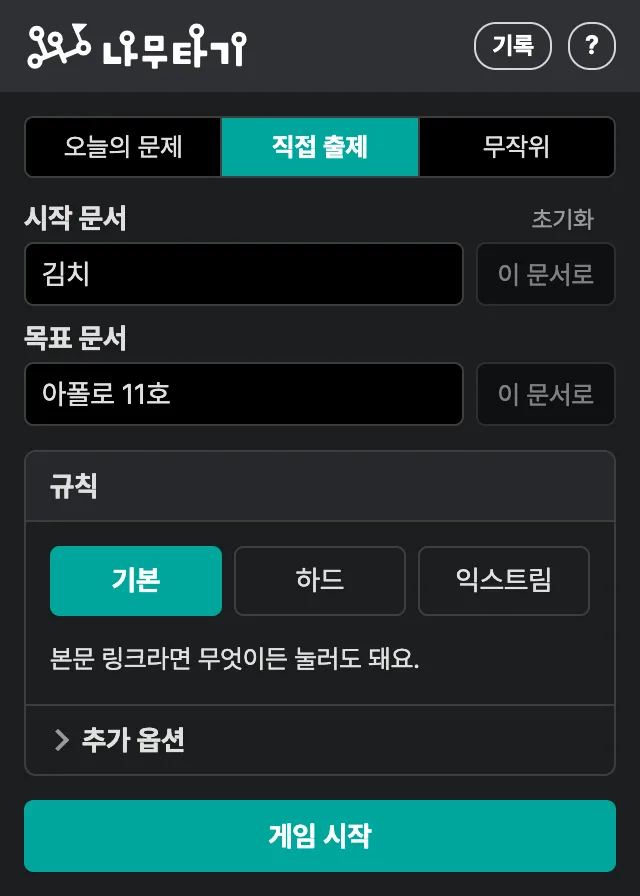
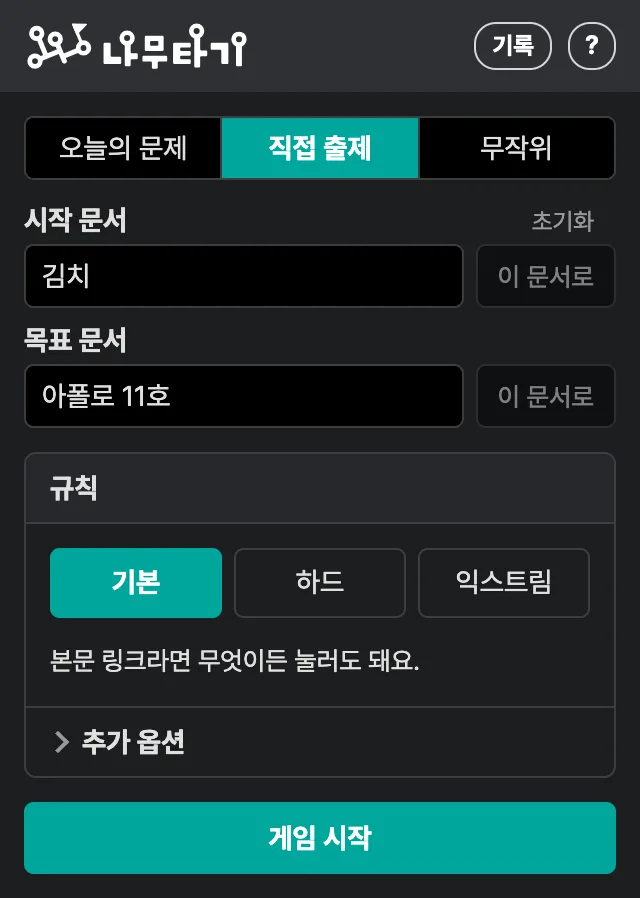
v0.3.0 사진 다시 찍기: 사이트와 README 사진 20장, 웹스토어 그림 6장, shots.mjs 보강
- ?v=5로 올림, 오늘의 문제 사진은 TODAY_SHIFT로 어울리는 날 문제, ONLY=popups 추가
- Figma 기본 문서의 그림을 바꾸고 store/images를 내보냄(슬라이드 5 수락 창 비율에 맞춰 위치 조정)

diff --git a/server/public/index.html b/server/public/index.html
@@ -36,7 +36,7 @@
 
   <div class="actions" style="margin-bottom: 22.5px"><a class="btn primary go" href="https://chromewebstore.google.com/detail/namutagi/fiadjnefijhjdngbdcaoahcdhkbnckfi">크롬 확장 추가하기</a></div>
 
-  <figure><picture><source media="(prefers-color-scheme: dark)" srcset="shots/play-dark.webp?v=4"><img src="shots/play-light.webp?v=4" width="960" height="600" alt="게임 중인 나무위키 화면. 위쪽 진행 막대에 목표, 단계, 시간이 보이고 그 밑에 지나온 경로가 펼쳐져 있다"></picture><figcaption>김치 문서에서 아폴로 11호 문서로 가는 판이에요.<br>진행 막대에 목표, 단계, 시간이 보이고, 지나온 경로도 펼쳐 볼 수 있어요.</figcaption></figure>
+  <figure><picture><source media="(prefers-color-scheme: dark)" srcset="shots/play-dark.webp?v=5"><img src="shots/play-light.webp?v=5" width="960" height="600" alt="게임 중인 나무위키 화면. 위쪽 진행 막대에 목표, 단계, 시간이 보이고 그 밑에 지나온 경로가 펼쳐져 있다"></picture><figcaption>김치 문서에서 아폴로 11호 문서로 가는 판이에요.<br>진행 막대에 목표, 단계, 시간이 보이고, 지나온 경로도 펼쳐 볼 수 있어요.</figcaption></figure>
 
   <details class="toc" id="toc" open>
     <summary></summary>
@@ -57,8 +57,8 @@
       <tr><th>무작위</th><td>난이도와 분야를 고르면 목표를 대신 정해 줘요.<br>시작은 나무위키 랜덤 문서예요.</td></tr>
     </table>
     <div class="pops">
-      <figure><picture><source media="(prefers-color-scheme: dark)" srcset="shots/popup-today-dark.webp?v=4"><img src="shots/popup-today-light.webp?v=4" loading="lazy" alt="팝업의 오늘의 문제 탭"></picture><figcaption>오늘의 문제</figcaption></figure>
-      <figure><picture><source media="(prefers-color-scheme: dark)" srcset="shots/popup-custom-dark.webp?v=4"><img src="shots/popup-custom-light.webp?v=4" loading="lazy" alt="팝업의 직접 출제 탭"></picture><figcaption>직접 출제</figcaption></figure>
+      <figure><picture><source media="(prefers-color-scheme: dark)" srcset="shots/popup-today-dark.webp?v=5"><img src="shots/popup-today-light.webp?v=5" loading="lazy" alt="팝업의 오늘의 문제 탭"></picture><figcaption>오늘의 문제</figcaption></figure>
+      <figure><picture><source media="(prefers-color-scheme: dark)" srcset="shots/popup-custom-dark.webp?v=5"><img src="shots/popup-custom-light.webp?v=5" loading="lazy" alt="팝업의 직접 출제 탭"></picture><figcaption>직접 출제</figcaption></figure>
     </div>
     <p>나무위키에서 우클릭해서 지금 문서를 시작이나 목표로 바로 넣을 수도 있어요.</p>
   </div>
@@ -78,15 +78,15 @@
   <div>
     <p>도착하면 내 기록이 담긴 도전장 링크를 만들 수 있어요.<br>받은 친구는 같은 문제, 같은 규칙으로 도전해요.<br>시간이 빠른 쪽이 이기고, 같으면 단계가 적은 쪽이 이겨요.<br>상대의 경로는 이겨야 볼 수 있어요.</p>
     <div class="two">
-      <figure><picture><source media="(prefers-color-scheme: dark)" srcset="shots/invite-dark.webp?v=4"><img src="shots/invite-light.webp?v=4" width="960" height="600" loading="lazy" alt="도전장 링크를 열면 뜨는 수락 창"></picture><figcaption>도전장을 받으면 어떤 판인지 보고 도전해요.</figcaption></figure>
-      <figure><picture><source media="(prefers-color-scheme: dark)" srcset="shots/win-dark.webp?v=4"><img src="shots/win-light.webp?v=4" width="960" height="600" loading="lazy" alt="도전장에서 이겼을 때의 결과 카드와 폭죽"></picture><figcaption>이기면 폭죽이 터지고 상대 경로가 열려요.</figcaption></figure>
+      <figure><picture><source media="(prefers-color-scheme: dark)" srcset="shots/invite-dark.webp?v=5"><img src="shots/invite-light.webp?v=5" width="960" height="600" loading="lazy" alt="도전장 링크를 열면 뜨는 수락 창"></picture><figcaption>도전장을 받으면 어떤 판인지 보고 도전해요.</figcaption></figure>
+      <figure><picture><source media="(prefers-color-scheme: dark)" srcset="shots/win-dark.webp?v=5"><img src="shots/win-light.webp?v=5" width="960" height="600" loading="lazy" alt="도전장에서 이겼을 때의 결과 카드와 폭죽"></picture><figcaption>이기면 폭죽이 터지고 상대 경로가 열려요.</figcaption></figure>
     </div>
   </div>
 
   <h2 id="s4"><a href="#toc">4.</a> 내 기록 보기</h2>
   <div>
     <p>도착률, 평균 단계와 시간, 연속 도착을 팝업에서 볼 수 있어요.<br>지난 판의 이동 경로와 문서마다 머문 시간도 남아요.<br>지난 판도 기록에서 도전장으로 보낼 수 있어요.</p>
-    <div class="pops"><figure><picture><source media="(prefers-color-scheme: dark)" srcset="shots/popup-records-dark.webp?v=4"><img src="shots/popup-records-light.webp?v=4" loading="lazy" alt="팝업의 기록 화면. 도착률과 연속 도착, 최근 판이 보인다"></picture><figcaption>기록 화면(예시)</figcaption></figure></div>
+    <div class="pops"><figure><picture><source media="(prefers-color-scheme: dark)" srcset="shots/popup-records-dark.webp?v=5"><img src="shots/popup-records-light.webp?v=5" loading="lazy" alt="팝업의 기록 화면. 도착률과 연속 도착, 최근 판이 보인다"></picture><figcaption>기록 화면(예시)</figcaption></figure></div>
   </div>
 
   <h2 id="s5"><a href="#toc">5.</a> 계정 없이 바로 시작해요</h2>

diff --git a/demo/photos.html b/demo/photos.html
@@ -1,0 +1,5 @@
+<!doctype html><meta charset="utf-8"><title>사진 전체</title>
+<style>body{font:14px/1.5 Pretendard,system-ui,sans-serif;margin:24px;background:#f4f4f4;color:#222}h2{margin:32px 0 8px;font-size:16px}
+.row{display:flex;gap:12px;align-items:flex-start;flex-wrap:wrap}figure{margin:0}figcaption{font-size:12px;color:#666;margin-bottom:4px}
+img{display:block;max-width:100%;border:1px solid #ccc;background:#fff}.sh img{width:470px}.sh .p img{width:230px}.st img{width:560px}</style>
+<h1>나무타기 사진 전체(2026-11-09 다시 찍음)</h1><h2>랜딩, 환영 페이지, README 사진(밝은, 어두운)</h2><div class="row sh"><figure class=""><figcaption>시작(목표 카드) light</figcaption><img src="../server/public/shots/start-light.webp?light5"></figure><figure class=""><figcaption>시작(목표 카드) dark</figcaption><img src="../server/public/shots/start-dark.webp?dark5"></figure><figure class=""><figcaption>카운트다운 light</figcaption><img src="../server/public/shots/countdown-light.webp?light5"></figure><figure class=""><figcaption>카운트다운 dark</figcaption><img src="../server/public/shots/countdown-dark.webp?dark5"></figure><figure class=""><figcaption>경로 펼침 light</figcaption><img src="../server/public/shots/play-light.webp?light5"></figure><figure class=""><figcaption>경로 펼침 dark</figcaption><img src="../server/public/shots/play-dark.webp?dark5"></figure><figure class=""><figcaption>도착 결과 light</figcaption><img src="../server/public/shots/result-light.webp?light5"></figure><figure class=""><figcaption>도착 결과 dark</figcaption><img src="../server/public/shots/result-dark.webp?dark5"></figure><figure class=""><figcaption>도전장 수락 light</figcaption><img src="../server/public/shots/invite-light.webp?light5"></figure><figure class=""><figcaption>도전장 수락 dark</figcaption><img src="../server/public/shots/invite-dark.webp?dark5"></figure><figure class=""><figcaption>승리 light</figcaption><img src="../server/public/shots/win-light.webp?light5"></figure><figure class=""><figcaption>승리 dark</figcaption><img src="../server/public/shots/win-dark.webp?dark5"></figure><figure class="p"><figcaption>팝업 오늘의 문제 light</figcaption><img src="../server/public/shots/popup-today-light.webp?light5"></figure><figure class="p"><figcaption>팝업 오늘의 문제 dark</figcaption><img src="../server/public/shots/popup-today-dark.webp?dark5"></figure><figure class="p"><figcaption>팝업 직접 출제 light</figcaption><img src="../server/public/shots/popup-custom-light.webp?light5"></figure><figure class="p"><figcaption>팝업 직접 출제 dark</figcaption><img src="../server/public/shots/popup-custom-dark.webp?dark5"></figure><figure class="p"><figcaption>팝업 규칙 light</figcaption><img src="../server/public/shots/popup-rules-light.webp?light5"></figure><figure class="p"><figcaption>팝업 규칙 dark</figcaption><img src="../server/public/shots/popup-rules-dark.webp?dark5"></figure><figure class="p"><figcaption>팝업 기록 light</figcaption><img src="../server/public/shots/popup-records-light.webp?light5"></figure><figure class="p"><figcaption>팝업 기록 dark</figcaption><img src="../server/public/shots/popup-records-dark.webp?dark5"></figure></div><h2>웹스토어 그림(Figma 기본 문서에서 내보냄)</h2><div class="row st"><figure><figcaption>screenshot-1</figcaption><img src="../store/images/screenshot-1.png"></figure><figure><figcaption>screenshot-2</figcaption><img src="../store/images/screenshot-2.png"></figure><figure><figcaption>screenshot-3</figcaption><img src="../store/images/screenshot-3.png"></figure><figure><figcaption>screenshot-4</figcaption><img src="../store/images/screenshot-4.png"></figure><figure><figcaption>screenshot-5</figcaption><img src="../store/images/screenshot-5.png"></figure><figure><figcaption>marquee-1400x560</figcaption><img src="../store/images/marquee-1400x560.png"></figure><figure><figcaption>promo-440x280</figcaption><img src="../store/images/promo-440x280.png"></figure></div>

diff --git a/server/public/welcome.html b/server/public/welcome.html
@@ -45,8 +45,8 @@
       <li>카운트다운이 끝나면 시간이 흘러요.<br>본문 링크만 눌러 목표 문서까지 가요.</li>
     </ol>
     <div class="shots">
-      <div class="pop"><figure><picture><source media="(prefers-color-scheme: dark)" srcset="shots/popup-today-dark.webp?v=4"><img src="shots/popup-today-light.webp?v=4" alt="팝업의 오늘의 문제 탭"></picture><figcaption>툴바 아이콘을 누르면 열려요.</figcaption></figure></div>
-      <div class="game"><figure><picture><source media="(prefers-color-scheme: dark)" srcset="shots/play-dark.webp?v=4"><img src="shots/play-light.webp?v=4" alt="게임 중인 나무위키 화면. 위쪽 진행 막대에 목표, 단계, 시간이 보이고 그 밑에 지나온 경로가 펼쳐져 있다"></picture><figcaption>위쪽 막대에 목표, 단계, 시간이 보여요.</figcaption></figure></div>
+      <div class="pop"><figure><picture><source media="(prefers-color-scheme: dark)" srcset="shots/popup-today-dark.webp?v=5"><img src="shots/popup-today-light.webp?v=5" alt="팝업의 오늘의 문제 탭"></picture><figcaption>툴바 아이콘을 누르면 열려요.</figcaption></figure></div>
+      <div class="game"><figure><picture><source media="(prefers-color-scheme: dark)" srcset="shots/play-dark.webp?v=5"><img src="shots/play-light.webp?v=5" alt="게임 중인 나무위키 화면. 위쪽 진행 막대에 목표, 단계, 시간이 보이고 그 밑에 지나온 경로가 펼쳐져 있다"></picture><figcaption>위쪽 막대에 목표, 단계, 시간이 보여요.</figcaption></figure></div>
     </div>
     <p>이미 열어 둔 나무위키 탭은 새로고침해 주세요.<br>새로고침하면 그때부터 나무타기가 동작해요.</p>
   </div>

diff --git a/CLAUDE.md b/CLAUDE.md
@@ -38,7 +38,7 @@ main은 2026-11-03에 푸시(v0.2.0 릴리스 커밋). 서버는 namutagi.com에
 - 항상 한국어. 짧게, 결론부터. 코드는 설명에 길게 넣지 않는다.
 - "바꾸지 말고 알려줘", "어때?", "뭔소리야?" 같은 질문은 구현하지 말고 답만 한다. "해줘"는 구현한다.
 - 방식이 여러 갈래면 AskUserQuestion으로 선택지(미리보기 포함)를 주고 사용자가 고르게 한다. 큰 화면 변경은 데모를 먼저 보여 달라고 한 적이 있다(카운트다운은 `demo/countdown.html`로 보여 주고 승인받은 뒤 적용).
-- 코드를 바꾸면 개발 노트(`docs/DEVELOPMENT.md`)와 메모리를 같이 고친다. 출시(2026-11-03) 뒤에는 새 기능도 README에 적고 GitHub 릴리스마다 바뀐 점을 적는다(출시 전에는 README에 신기능 문구를 넣지 않고 0.1.0 릴리스 설명도 그대로 두었다). 사용자에게 보이는 동작이 바뀌면 `README.md`(사용자용. 사용자의 다른 저장소 L4N14KE4/cosmate의 README 형식: 로고 그림, 비공식 안내 상자, 기능별 굵은 묶음과 명사형 목록, 설치, 개발, 개인정보, 면책사항, 라이선스. 문장은 친근한 합쇼체, 가운뎃점과 이모지는 쓰지 않음. 스크린샷은 `server/public/shots/`(webp, 밝은/어두운 둘을 `<picture>`로, 랜딩과 환영 페이지와 같은 폴더): `node e2e/shots.mjs <폴더>`로 다시 찍는다(Chrome for Testing 새 프로필, 브라우저 1.25배 확대처럼, 결과와 승리 화면은 카드가 길어 1120x700, 김치 → 아폴로 11호 규칙 없음, 규칙 사진은 하드와 3분, 예시 기록. `CROPS=<폴더>`를 주면 Figma용 팝업과 카드 PNG도 남긴다. 다시 찍으면 index.html, welcome.html의 `?v=`를 올린다). Claude in Chrome은 화면을 1920x968로 고정하고 1556x784로 줄여 찍으며 창 크기 바꾸기가 안 먹으므로, 글자를 키우려면 `document.documentElement.style.zoom = 1.5`로 페이지를 확대해 찍는다(전체 로드마다 다시 적용). 라이선스는 MIT(`LICENSE`, cosmate와 같은 문구))도 고친다. `extension/` 안에는 md를 두지 않는다(웹스토어 zip에 같이 들어간다). `extension/manifest.json`의 version은 바꿀 때마다 올린다(환영 페이지의 "최근 버전"과 release-test가 이 값을 본다). 크롬에 올라간 판은 README·메모리의 변경 이력과 파일 수정 시각으로 구분한다.
+- 코드를 바꾸면 개발 노트(`docs/DEVELOPMENT.md`)와 메모리를 같이 고친다. 출시(2026-11-03) 뒤에는 새 기능도 README에 적고 GitHub 릴리스마다 바뀐 점을 적는다(출시 전에는 README에 신기능 문구를 넣지 않고 0.1.0 릴리스 설명도 그대로 두었다). 사용자에게 보이는 동작이 바뀌면 `README.md`(사용자용. 사용자의 다른 저장소 L4N14KE4/cosmate의 README 형식: 로고 그림, 비공식 안내 상자, 기능별 굵은 묶음과 명사형 목록, 설치, 개발, 개인정보, 면책사항, 라이선스. 문장은 친근한 합쇼체, 가운뎃점과 이모지는 쓰지 않음. 스크린샷은 `server/public/shots/`(webp, 밝은/어두운 둘을 `<picture>`로, 랜딩과 환영 페이지와 같은 폴더): `node e2e/shots.mjs <폴더>`로 다시 찍는다(Chrome for Testing 새 프로필, 브라우저 1.25배 확대처럼, 결과와 승리 화면은 카드가 길어 1120x700, 김치 → 아폴로 11호 규칙 없음, 규칙 사진은 하드와 3분, 예시 기록. `CROPS=<폴더>`를 주면 Figma용 팝업과 카드 PNG도 남긴다. `ONLY=popups`면 팝업 사진만 다시 찍는다. 오늘의 문제 사진은 그날 문제가 어울리지 않으면 `TODAY_SHIFT`일 뒤 날짜로 찍는다(2026-11-09: 피규어 → 피처폰). 게임 화면의 진행 막대 사진은 play 사진의 (382,23) 1155x420을 924x336으로 줄여 쓴다. Figma 슬라이드의 그림은 `upload_assets`에 nodeIds를 주고 PNG 바이트를 그대로 POST해 바꾼다(이름 안 바뀜). 다시 찍으면 index.html, welcome.html의 `?v=`를 올린다). Claude in Chrome은 화면을 1920x968로 고정하고 1556x784로 줄여 찍으며 창 크기 바꾸기가 안 먹으므로, 글자를 키우려면 `document.documentElement.style.zoom = 1.5`로 페이지를 확대해 찍는다(전체 로드마다 다시 적용). 라이선스는 MIT(`LICENSE`, cosmate와 같은 문구))도 고친다. `extension/` 안에는 md를 두지 않는다(웹스토어 zip에 같이 들어간다). `extension/manifest.json`의 version은 바꿀 때마다 올린다(환영 페이지의 "최근 버전"과 release-test가 이 값을 본다). 크롬에 올라간 판은 README·메모리의 변경 이력과 파일 수정 시각으로 구분한다.
 - 사용자가 싫어하는 것: 경쟁작과 닮은 "신기록" 배지, 가운뎃점(·) 구분 표기, 둥근 팝업 껍데기, AI 같은 꾸밈(배지, 컬러 카드, 원 번호, 강한 장식), 어색한 줄바꿈, 붉은 경고색 시간 표시(만들었다가 뺐다).
 - 사용자가 좋아하는 것: 나무위키 기본 모양(제목·소제목 밑줄, 링크색 번호, 점 목록, 테두리 표), 설명 문구는 본문색으로 크게, 세로 간격 12px 통일, 난이도별 버튼 색, 폭죽.
 - UI 문구는 한 문장에 한 줄(`\n` 또는 `<br>`), 한글은 `word-break: keep-all`.
